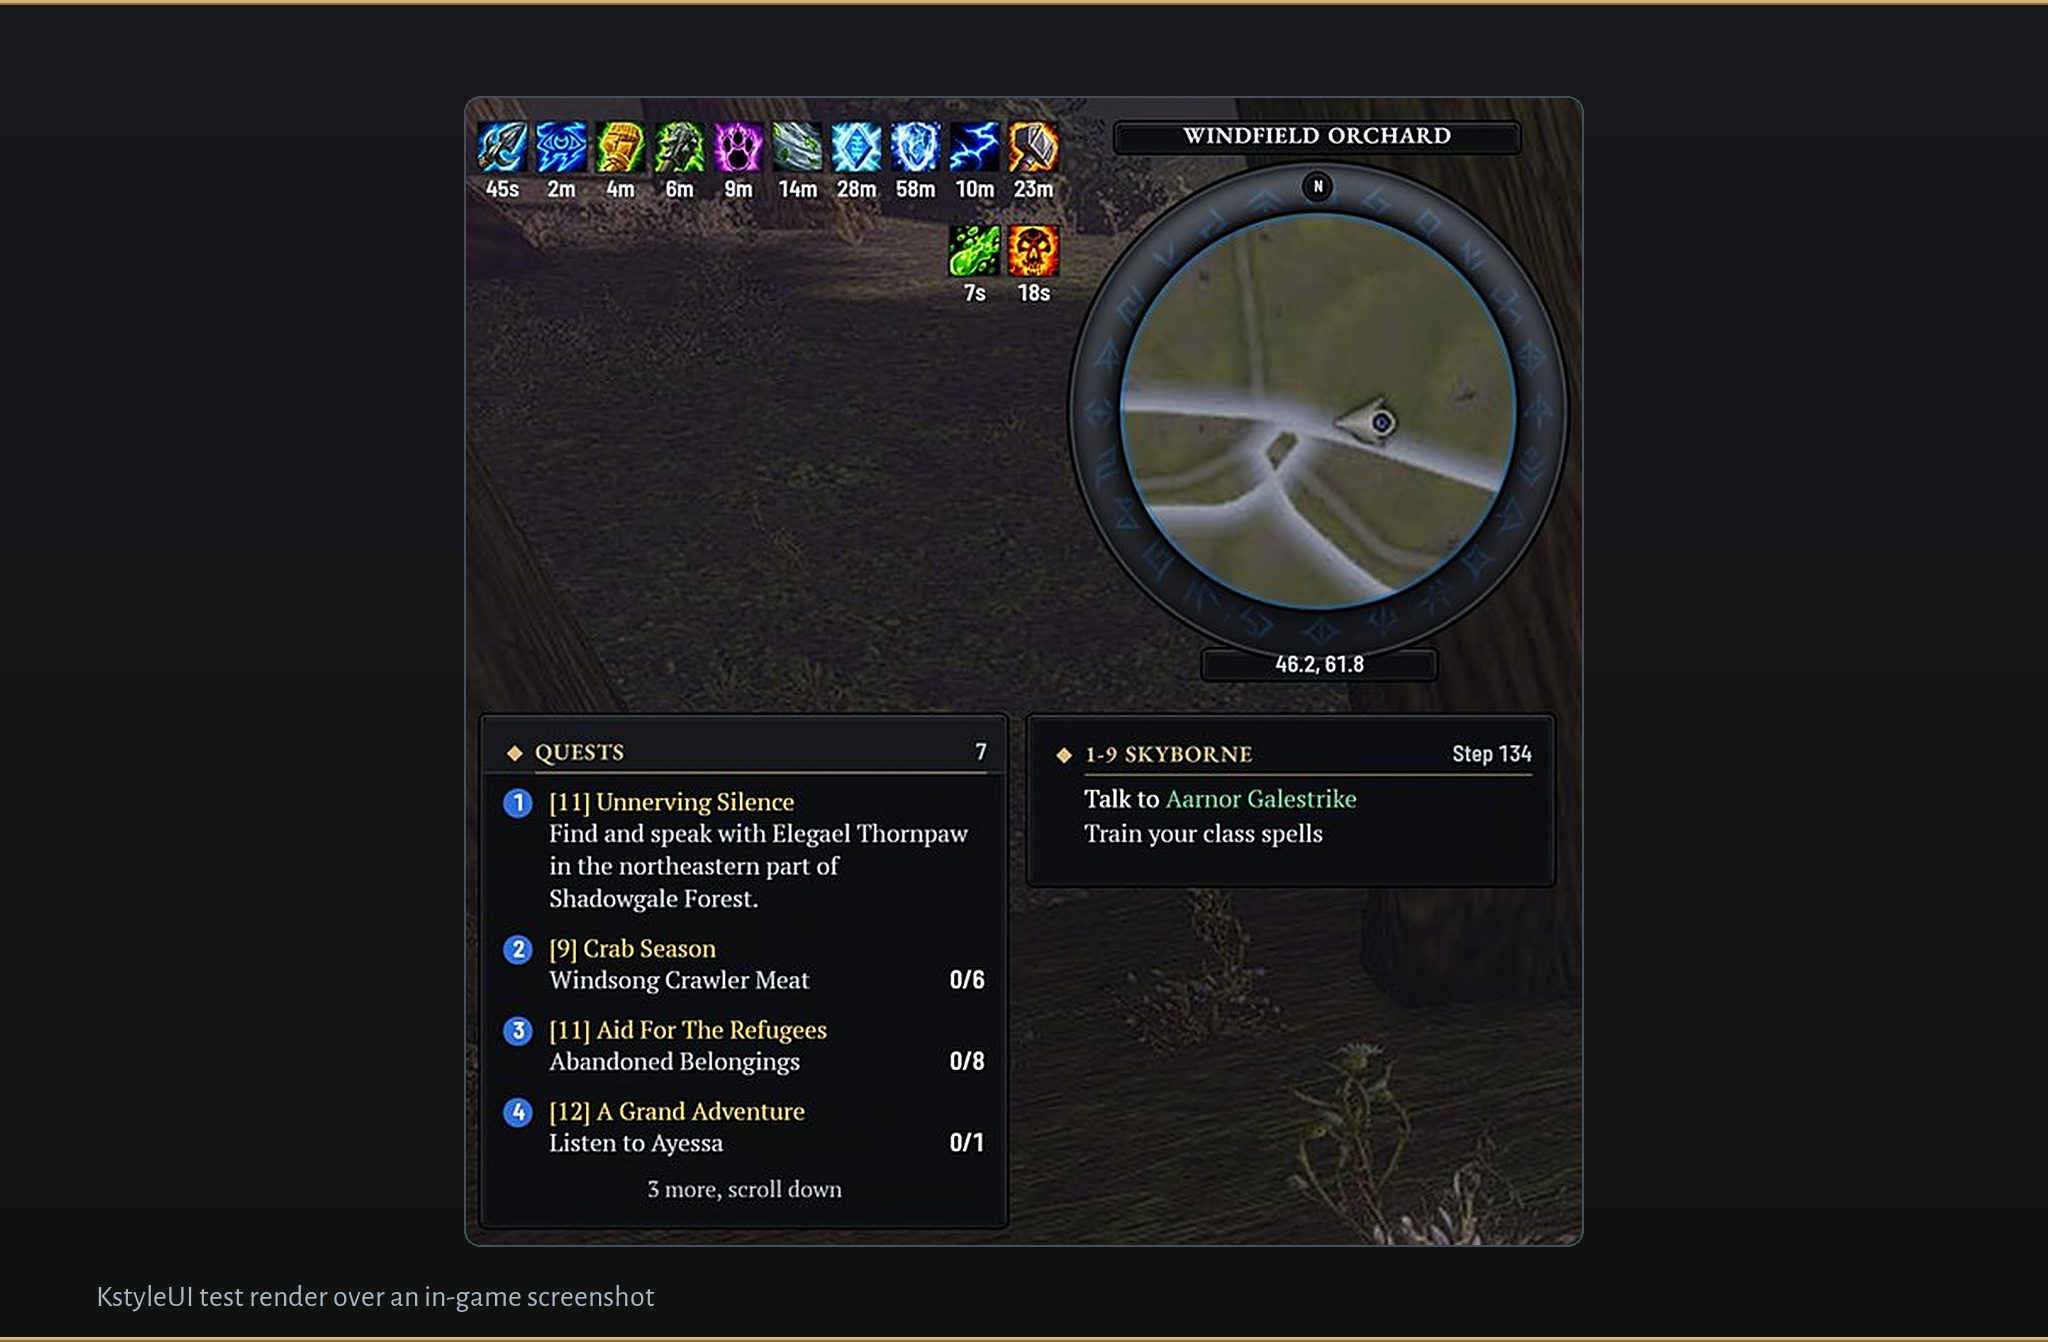
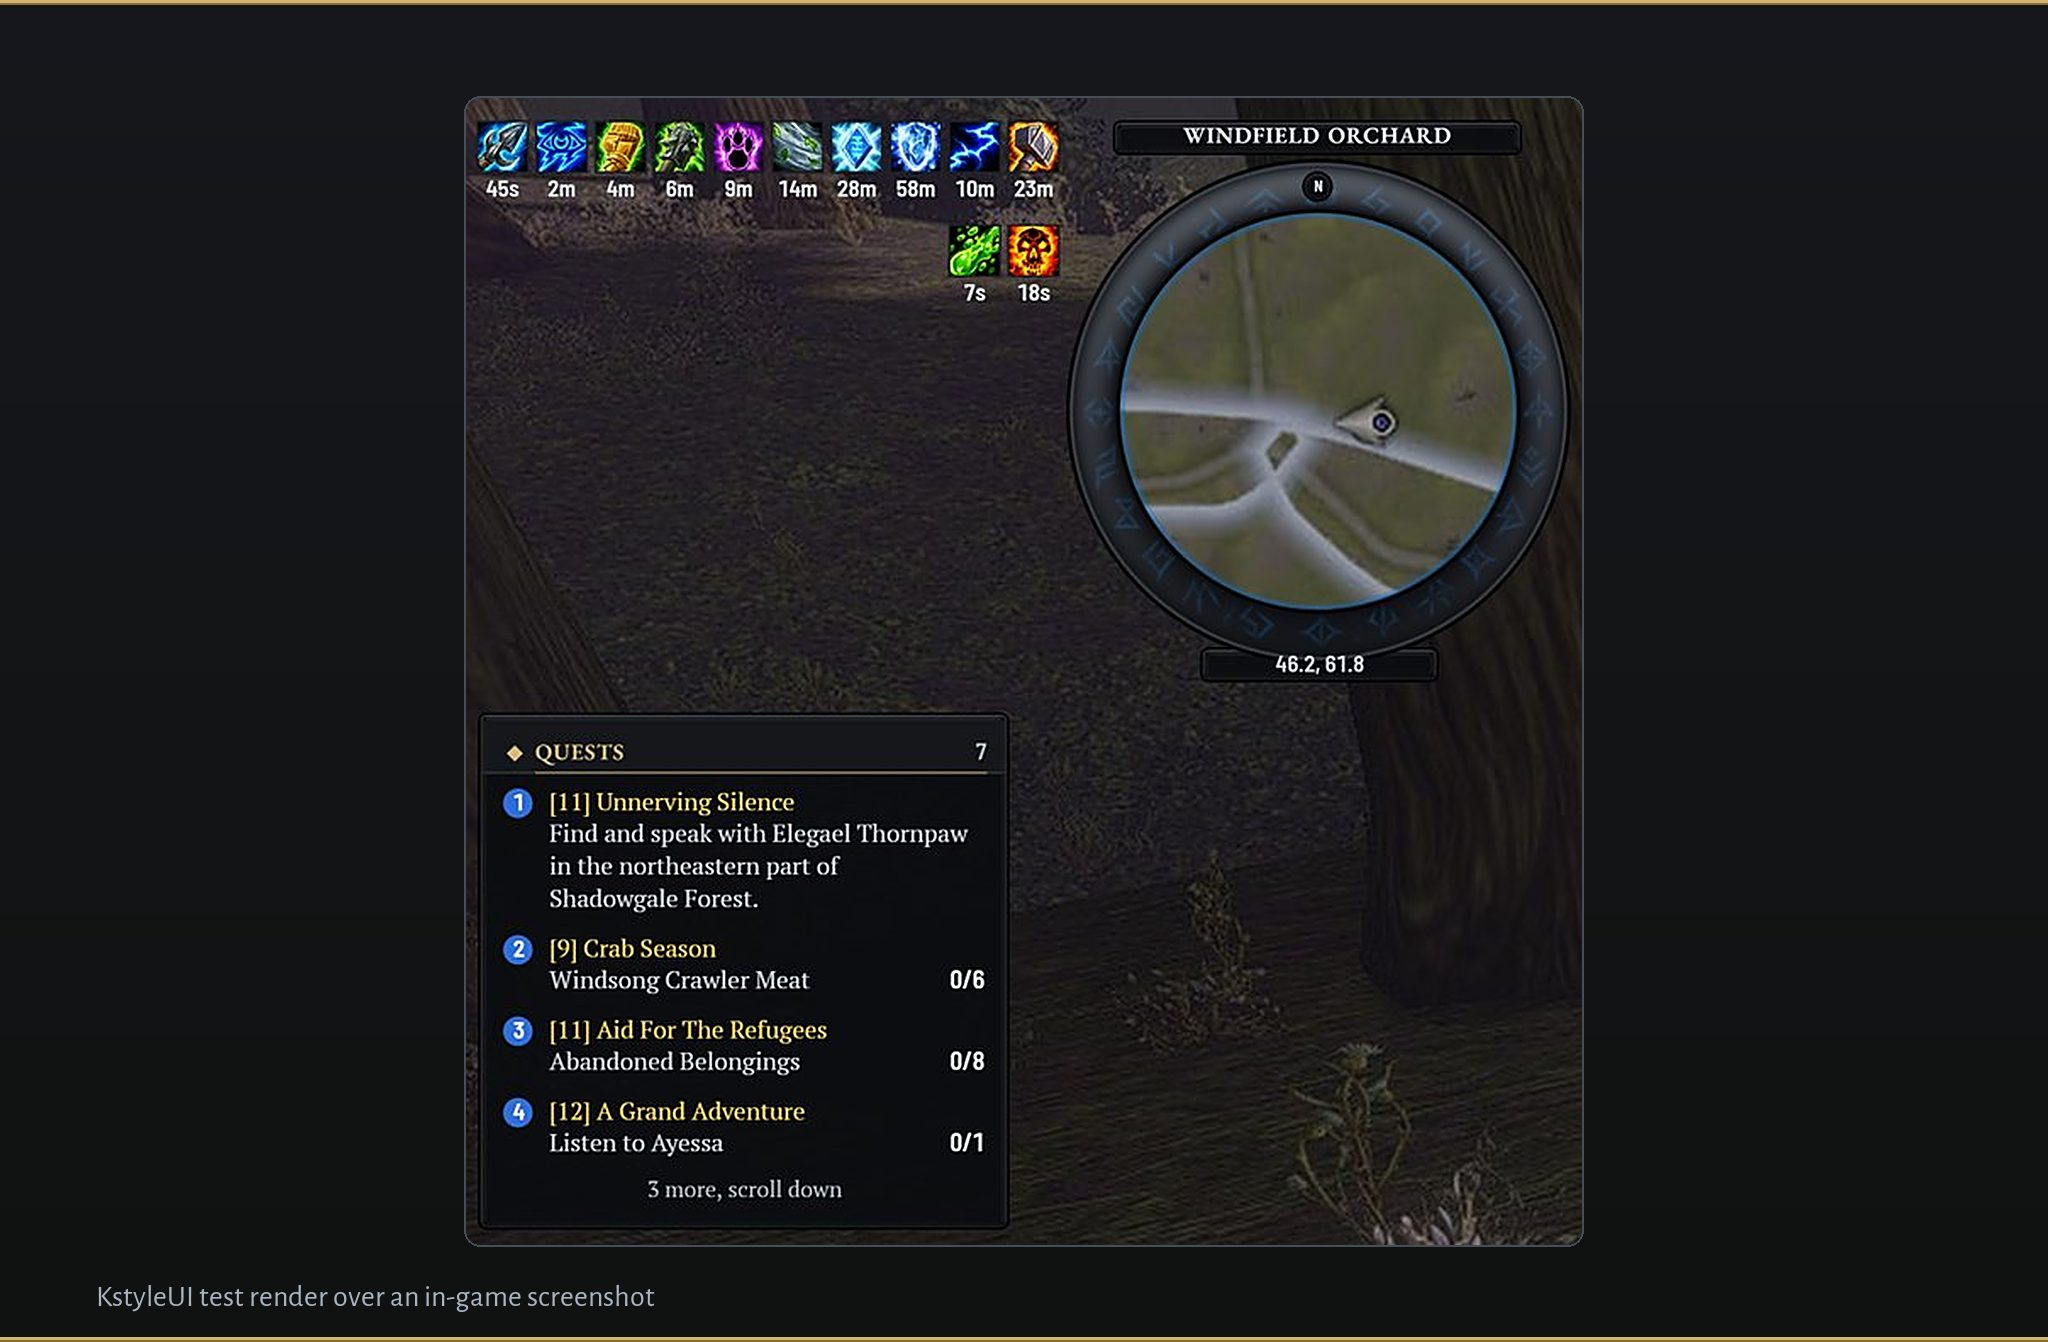
docs: pictures for the guide on the left
Retake the README and store pictures with Tools/render/readme.py and
Tools/media/marketing.py --pages over the committed forest plates, after
#713 moved the guide card to the top left corner. The rail crop now shows
the map and quest cards only, and its caption and the gallery row say so.
docs/core-visuals.md counts the 32 test-pixel-grid files #714 left.

Changed region(s): [[0.5, 0.5194, 0.75, 0.6721]]

diff --git a/docs/core-visuals.md b/docs/core-visuals.md
@@ -246,7 +246,7 @@ Every frame KstyleUI creates should land on whole physical pixels: positions, si
 
 Edges are judged from the relative region's corner, not the screen, so a correction stays right when the region moves. Place again from a `ScaleChanged` handler, and after the relative region resizes. The kit uses the helpers itself: a chrome lays its far corners, ticks and pills out by `Remainder`, so a card on an owner of any size has whole corners, and lays out again when the owner's fraction changes; `Layout` snaps an element's frame again whenever its size changes to one that is not whole (a skin or module that resizes its frame after Apply); the skin kit's overlays and backdrops use `Fill`. A chrome's default corner is still `lines` border lines round, so with one-pixel lines a card's corner is 6 pixels and a socket's 3 at every screen; at 4K and on a 3456x2234 Mac, where the border used to be two pixels, corners and the insets measured in border lines are half as many pixels as before.
 
-`Tools/regression/pixel_audit_lib.lua` checks it. The sixteen `test-pixel-grid-<n>.lua` files build `hud_reference` (DPS) and every gallery at 5120x1440, 3440x1440, 3840x1080, 2560x1440, 1920x1080, 3840x2160 and 1280x720. They walk every texture, line, cooldown swipe and font string KstyleUI's own code made (the stubs record the file that made and placed each region while `PIXEL_AUDIT` is set) and judge each edge before the renderer rounds it: a texture's four edges, the fixed edges of a status bar's fill and of a region laid on its moving end (an edge whose own point is anchored to that end a whole number of pixels from it is the fill's), and a font string's anchor points. A frame whose own translation is part way, or has ended in a group whose OnFinished takes the frame away, is judged at its place, not mid-flight; a finished group without one stays at its end offset. An edge is measured from the corner of the nearest frame KstyleUI does not place (a Blizzard window, another addon's frame, a gallery's own arrangement); an edge anchored to a side of a font string that its glyphs place (not one its own points or an explicit width or height fix) is the font's and is not judged. Each offender is blamed on the code that placed the outermost off-grid frame above it. A region the helpers placed is blamed on the code that called the helper, and a replay keeps the file that placed the region first, so converting a file to the helpers moves no count into `Core/Widgets/Base.lua`. The stubs run `OnSizeChanged` on a frame spanned on a target whose size changes, as the game does. `Tools/regression/pixel_allow.tsv` carries, per scene, screen and file, the regions that may still be off: a count that rises fails, and a count that falls fails until its line is lowered, so the list only shrinks. `lua5.1 Tools/dev/pixel_allow.lua` measures the matrix and rewrites it.
+`Tools/regression/pixel_audit_lib.lua` checks it. The 32 `test-pixel-grid-<n>.lua` files build `hud_reference` (DPS) and every gallery at 5120x1440, 3440x1440, 3840x1080, 2560x1440, 1920x1080, 3840x2160 and 1280x720. They walk every texture, line, cooldown swipe and font string KstyleUI's own code made (the stubs record the file that made and placed each region while `PIXEL_AUDIT` is set) and judge each edge before the renderer rounds it: a texture's four edges, the fixed edges of a status bar's fill and of a region laid on its moving end (an edge whose own point is anchored to that end a whole number of pixels from it is the fill's), and a font string's anchor points. A frame whose own translation is part way, or has ended in a group whose OnFinished takes the frame away, is judged at its place, not mid-flight; a finished group without one stays at its end offset. An edge is measured from the corner of the nearest frame KstyleUI does not place (a Blizzard window, another addon's frame, a gallery's own arrangement); an edge anchored to a side of a font string that its glyphs place (not one its own points or an explicit width or height fix) is the font's and is not judged. Each offender is blamed on the code that placed the outermost off-grid frame above it. A region the helpers placed is blamed on the code that called the helper, and a replay keeps the file that placed the region first, so converting a file to the helpers moves no count into `Core/Widgets/Base.lua`. The stubs run `OnSizeChanged` on a frame spanned on a target whose size changes, as the game does. `Tools/regression/pixel_allow.tsv` carries, per scene, screen and file, the regions that may still be off: a count that rises fails, and a count that falls fails until its line is lowered, so the list only shrinks. `lua5.1 Tools/dev/pixel_allow.lua` measures the matrix and rewrites it.
 
 `Setup.Layouts.ScaleLimit(width, height, preset, enabled)` computes the largest fit to sub-pixel search precision, down to the slider's minimum 0.6; a screen whose size cannot be read gets the shipped `16 / 19`. It checks the preset's default Medallions footprints and story slot, not saved positions or sizes. `Layouts.Enabled(preset, profile)` snapshots the current profile's module and element switches; Scale passes that map to the limit. Without a map, `ScaleLimit` and `Fits` use the preset's configured switches (`Layouts.Shown`), not every reserved slot. Disabled modules, bars and other explicit element switches do not constrain the limit; enabled focus, boss, threat and other situational elements still do, without reading live visibility. Separate cast-bar slots count only when the frame style and cast-bar switches configure them. The story slot remains reserved for the quest tracker, even without its skin.
 

diff --git a/docs/store/wago.md b/docs/store/wago.md
@@ -203,11 +203,11 @@ The meter follows your role: threat when you tank, damage otherwise. As DPS you 
 
 One class-coloured bar per player. Switch between this fight, the last fight and the whole session; point at a damage row for that player's spell split.
 
-### Quests, guide and map on the right
+### Quests and map on the right, guide on the left
 
-![KstyleUI test render over an in-game screenshot of the addon's right rail: your buffs beside the round minimap with the zone and coordinates, the quest card under the map and the RestedXP guide card beside it](https://raw.githubusercontent.com/korallis/KstyleUI/main/docs/media/marketing/show_crop_rail.jpg)
+![KstyleUI test render over an in-game screenshot of the addon's right rail: your buffs beside the round minimap with the zone and coordinates, and the quest card under the map](https://raw.githubusercontent.com/korallis/KstyleUI/main/docs/media/marketing/show_crop_rail.jpg)
 
-*KstyleUI test render over an in-game screenshot: the right rail - map card, quest card and guide card. Icons in this picture are the optional AI-made icon pack, not art shipped in the addon.*
+*KstyleUI test render over an in-game screenshot: the right rail - map card and quest card. Icons in this picture are the optional AI-made icon pack, not art shipped in the addon.*
 
 Your buffs sit beside a round map with the zone and your coordinates. The quest card keeps your quests in view and scrolls for the rest. With a RestedXP or Zygor Guides Viewer guide open, the guide gets a forged card of its own in the top left corner, above your party frames, and RestedXP's target and item boxes dock underneath. The minimap's drawer collects every addon button cluttering the map.
 
@@ -360,7 +360,7 @@ Upload in this order. The gallery description is the caption.
 | `gallery/04-setup.jpg` | 720×523 | First-run setup | KstyleUI test render over an in-game screenshot of the first-run setup on its layout step: DPS, Tank and Healer cards, each with a picture of its layout. |
 | `gallery/05-nameplates.jpg` | 800×466 | Nameplates | KstyleUI test render over an in-game screenshot of the nameplates in combat: a targeted beast, an elite, a rare, a world boss and a friendly player. Icons in this picture are the optional AI-made icon pack, not art shipped in the addon. |
 | `gallery/06-meter.jpg` | 490×320 | Damage meter | KstyleUI test render over an in-game screenshot of the damage meter in a party of five, one class-coloured bar per player. Icons in this picture are the optional AI-made icon pack, not art shipped in the addon. |
-| `gallery/07-quests.jpg` | 660×678 | Map, quests and guide | KstyleUI test render over an in-game screenshot of the right rail: the map card, the quest card and the guide card. Icons in this picture are the optional AI-made icon pack, not art shipped in the addon. |
+| `gallery/07-quests.jpg` | 660×678 | Map and quests | KstyleUI test render over an in-game screenshot of the right rail: the map card and the quest card. Icons in this picture are the optional AI-made icon pack, not art shipped in the addon. |
 | `gallery/08-medallion-closeup.gif` | 800×166 | Target medallion | In-game screenshot: selecting a target brings in the target medallion, and its red ring pulses at low health. Icons in this picture are the optional AI-made icon pack, not art shipped in the addon. |
 
 The upload page for a project, once it exists, is `https://addons.wago.io/developers/projects/<slug>/gallery/create`.

diff --git a/docs/store/curseforge.md b/docs/store/curseforge.md
@@ -216,11 +216,11 @@ The meter follows your role: threat when you tank, damage otherwise. As DPS you 
 
 One class-coloured bar per player. Switch between this fight, the last fight and the whole session; point at a damage row for that player's spell split.
 
-### Quests, guide and map on the right
+### Quests and map on the right, guide on the left
 
-![KstyleUI test render over an in-game screenshot of the addon's right rail: your buffs beside the round minimap with the zone and coordinates, the quest card under the map and the RestedXP guide card beside it](https://raw.githubusercontent.com/korallis/KstyleUI/main/docs/media/marketing/show_crop_rail.jpg)
+![KstyleUI test render over an in-game screenshot of the addon's right rail: your buffs beside the round minimap with the zone and coordinates, and the quest card under the map](https://raw.githubusercontent.com/korallis/KstyleUI/main/docs/media/marketing/show_crop_rail.jpg)
 
-*KstyleUI test render over an in-game screenshot: the right rail - map card, quest card and guide card. Icons in this picture are the optional AI-made icon pack, not art shipped in the addon.*
+*KstyleUI test render over an in-game screenshot: the right rail - map card and quest card. Icons in this picture are the optional AI-made icon pack, not art shipped in the addon.*
 
 Your buffs sit beside a round map with the zone and your coordinates. The quest card keeps your quests in view and scrolls for the rest. With a RestedXP or Zygor Guides Viewer guide open, the guide gets a forged card of its own in the top left corner, above your party frames, and RestedXP's target and item boxes dock underneath. The minimap's drawer collects every addon button cluttering the map.
 
@@ -367,5 +367,5 @@ Upload in this order. Title, then caption.
 | `gallery/04-setup.jpg` | 720×523 | First-run setup | KstyleUI test render over an in-game screenshot of the first-run setup on its layout step: DPS, Tank and Healer cards, each with a picture of its layout. |
 | `gallery/05-nameplates.jpg` | 800×466 | Nameplates | KstyleUI test render over an in-game screenshot of the nameplates in combat: a targeted beast, an elite, a rare, a world boss and a friendly player. Icons in this picture are the optional AI-made icon pack, not art shipped in the addon. |
 | `gallery/06-meter.jpg` | 490×320 | Damage meter | KstyleUI test render over an in-game screenshot of the damage meter in a party of five, one class-coloured bar per player. Icons in this picture are the optional AI-made icon pack, not art shipped in the addon. |
-| `gallery/07-quests.jpg` | 660×678 | Map, quests and guide | KstyleUI test render over an in-game screenshot of the right rail: the map card, the quest card and the guide card. Icons in this picture are the optional AI-made icon pack, not art shipped in the addon. |
+| `gallery/07-quests.jpg` | 660×678 | Map and quests | KstyleUI test render over an in-game screenshot of the right rail: the map card and the quest card. Icons in this picture are the optional AI-made icon pack, not art shipped in the addon. |
 | `gallery/08-medallion-closeup.gif` | 800×166 | Target medallion | In-game screenshot: selecting a target brings in the target medallion, and its red ring pulses at low health. Icons in this picture are the optional AI-made icon pack, not art shipped in the addon. |

diff --git a/README.md b/README.md
@@ -186,11 +186,11 @@ The meter follows your role: threat when you tank, damage otherwise. As DPS you 
 
 One class-coloured bar per player. Switch between this fight, the last fight and the whole session; point at a damage row for that player's spell split.
 
-### Quests, guide and map on the right
+### Quests and map on the right, guide on the left
 
-![KstyleUI test render over an in-game screenshot of the addon's right rail: your buffs beside the round minimap with the zone and coordinates, the quest card under the map and the RestedXP guide card beside it](https://raw.githubusercontent.com/korallis/KstyleUI/main/docs/media/marketing/show_crop_rail.jpg)
+![KstyleUI test render over an in-game screenshot of the addon's right rail: your buffs beside the round minimap with the zone and coordinates, and the quest card under the map](https://raw.githubusercontent.com/korallis/KstyleUI/main/docs/media/marketing/show_crop_rail.jpg)
 
-*KstyleUI test render over an in-game screenshot: the right rail - map card, quest card and guide card. Icons in this picture are the optional AI-made icon pack, not art shipped in the addon.*
+*KstyleUI test render over an in-game screenshot: the right rail - map card and quest card. Icons in this picture are the optional AI-made icon pack, not art shipped in the addon.*
 
 Your buffs sit beside a round map with the zone and your coordinates. The quest card keeps your quests in view and scrolls for the rest. With a RestedXP or Zygor Guides Viewer guide open, the guide gets a forged card of its own in the top left corner, above your party frames, and RestedXP's target and item boxes dock underneath. The minimap's drawer collects every addon button cluttering the map.
 

diff --git a/docs/store/description.md b/docs/store/description.md
@@ -180,11 +180,11 @@ The meter follows your role: threat when you tank, damage otherwise. As DPS you 
 
 One class-coloured bar per player. Switch between this fight, the last fight and the whole session; point at a damage row for that player's spell split.
 
-### Quests, guide and map on the right
+### Quests and map on the right, guide on the left
 
-![KstyleUI test render over an in-game screenshot of the addon's right rail: your buffs beside the round minimap with the zone and coordinates, the quest card under the map and the RestedXP guide card beside it](https://raw.githubusercontent.com/korallis/KstyleUI/main/docs/media/marketing/show_crop_rail.jpg)
+![KstyleUI test render over an in-game screenshot of the addon's right rail: your buffs beside the round minimap with the zone and coordinates, and the quest card under the map](https://raw.githubusercontent.com/korallis/KstyleUI/main/docs/media/marketing/show_crop_rail.jpg)
 
-*KstyleUI test render over an in-game screenshot: the right rail - map card, quest card and guide card. Icons in this picture are the optional AI-made icon pack, not art shipped in the addon.*
+*KstyleUI test render over an in-game screenshot: the right rail - map card and quest card. Icons in this picture are the optional AI-made icon pack, not art shipped in the addon.*
 
 Your buffs sit beside a round map with the zone and your coordinates. The quest card keeps your quests in view and scrolls for the rest. With a RestedXP or Zygor Guides Viewer guide open, the guide gets a forged card of its own in the top left corner, above your party frames, and RestedXP's target and item boxes dock underneath. The minimap's drawer collects every addon button cluttering the map.
 
